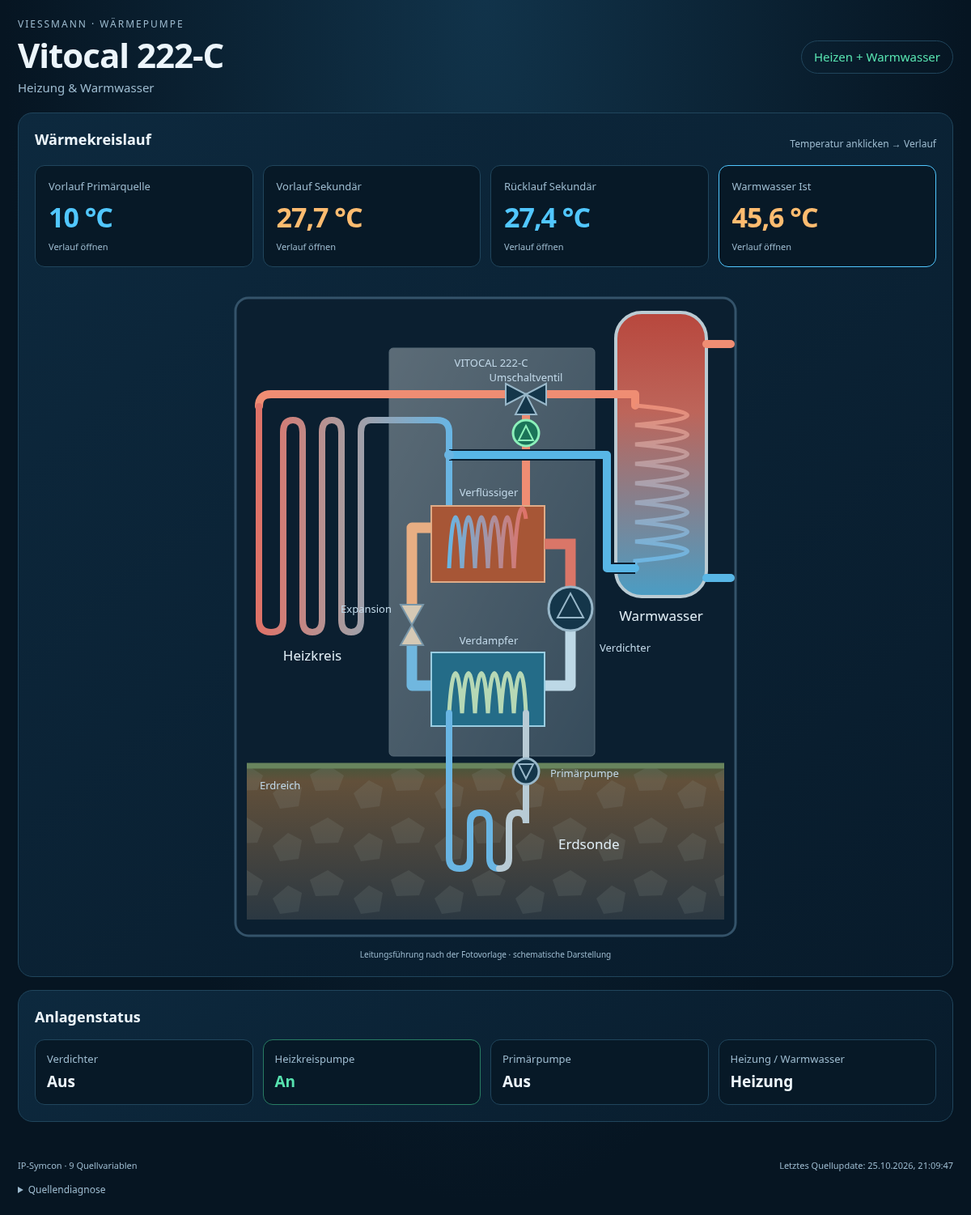
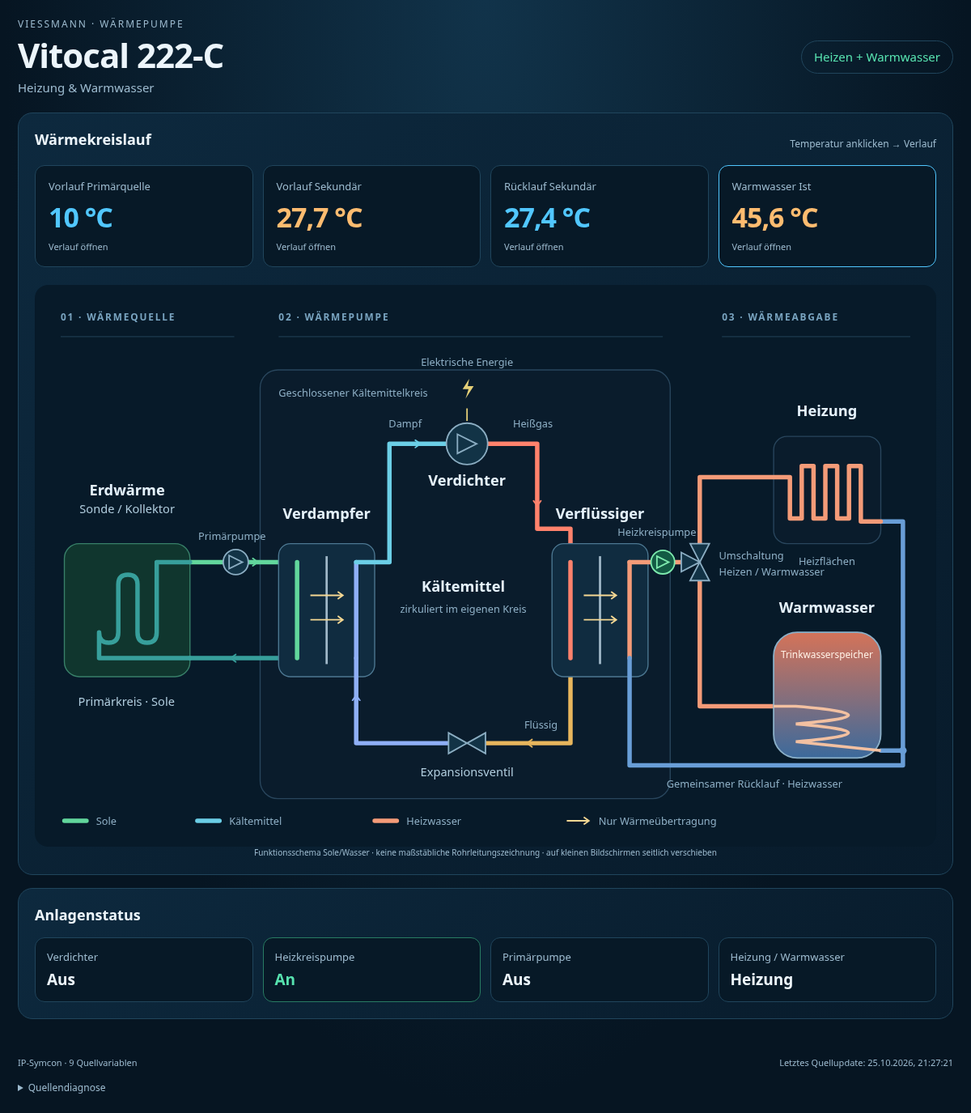
Create new heat-pump function diagram with separate fluid circuits

diff --git a/Vitocal222CTile/tile.html b/Vitocal222CTile/tile.html
@@ -3,8 +3,8 @@
 <style>
 :root{color-scheme:dark;--bg:#061522;--panel:#0b2234;--line:#20455c;--text:#ecf5fb;--muted:#9cbace;--blue:#51c7ff;--warm:#ffbc70;--green:#57e2af}*{box-sizing:border-box}body{margin:0;background:radial-gradient(ellipse at top,#11334a,var(--bg) 70%);color:var(--text);font:15px/1.4 system-ui,sans-serif}main{max-width:1200px;padding:22px;margin:auto}header{display:flex;align-items:center;justify-content:space-between;gap:16px;margin-bottom:20px}h1{margin:0;font-size:clamp(25px,4vw,42px);letter-spacing:-1px}h2{font-size:18px;margin:0 0 15px}.eyebrow{font-size:12px;letter-spacing:2px;color:var(--muted)}.subtitle{color:var(--muted)}.badge{border:1px solid var(--line);border-radius:24px;padding:9px 15px;color:var(--green);max-width:45%;overflow-wrap:anywhere}.grid{display:grid;grid-template-columns:1fr 1fr;gap:16px}.panel{border:1px solid var(--line);background:linear-gradient(140deg,#0d293e,#081b2b);border-radius:18px;padding:20px;min-width:0}.wide{grid-column:1/-1}.reading{background:#071927;border:1px solid var(--line);border-radius:12px;padding:16px}.label{color:var(--muted);font-size:13px}.value{font-size:clamp(24px,4vw,38px);font-weight:600;letter-spacing:-1px;overflow-wrap:anywhere}.warm{color:var(--warm)}.cold{color:var(--blue)}.diagram-note{font-size:10px;color:var(--muted);text-align:center}.status-grid{display:grid;grid-template-columns:repeat(4,1fr);gap:12px}.status{background:#071927;border-radius:12px;padding:14px;border:1px solid var(--line)}.status strong{display:block;font-size:19px;margin-top:6px}.status[data-active="true"]{border-color:#287c63}.status[data-active="true"] strong{color:var(--green)}button{font:inherit;border-radius:9px;border:1px solid #376079;padding:10px 12px;background:#0d3047;color:var(--text);cursor:pointer;min-height:42px}button:disabled{opacity:.45;cursor:default}button:hover:enabled{border-color:var(--blue)}button:focus-visible,select:focus-visible,summary:focus-visible{outline:2px solid var(--blue);outline-offset:3px}.reason,.hint{font-size:12px;color:var(--muted);margin-top:10px}.feedback{font-size:13px;color:#ffd399;min-height:20px;margin:12px 0}footer{color:var(--muted);font-size:11px;margin-top:14px;display:flex;gap:10px;justify-content:space-between;flex-wrap:wrap}details{margin-top:15px;color:var(--muted);font-size:12px}summary{cursor:pointer}pre{white-space:pre-wrap;overflow-wrap:anywhere;max-height:220px;overflow:auto}.unavailable{color:#ffd399} @media(max-width:650px){main{padding:12px}.grid{grid-template-columns:1fr}.status-grid{grid-template-columns:1fr 1fr}.reading{padding:10px}.panel{padding:15px}.value{font-size:25px}.label{font-size:11px}.badge{font-size:12px}header{align-items:flex-start}.diagram-note{font-size:9px}}
 
-.section-heading,.dialog-heading{display:flex;justify-content:space-between;gap:12px;align-items:center;flex-wrap:wrap}.section-heading h2{margin-bottom:0}.section-heading{margin-bottom:18px}.temperature-cards{display:grid;grid-template-columns:repeat(4,minmax(0,1fr));gap:12px}.reading{text-align:left;display:flex;flex-direction:column;gap:5px;min-width:0}.reading .value{font-size:clamp(22px,3vw,34px)}.chart-link{color:var(--muted);font-size:11px}.plant{display:block;width:100%;max-width:650px;height:auto;margin:22px auto 0}.svg-label{font:17px system-ui;fill:#e0edf5}.svg-small{font:13px system-ui;fill:#c0d7e7}.pipe-hot,.pipe-cold{fill:none;stroke:#ef8d73;stroke-width:10;stroke-linejoin:round;stroke-linecap:round}.pipe-cold{stroke:#58b6e6}.component{fill:#14364a;stroke:#98b7c9;stroke-width:3}.component.active{fill:#1b7358;stroke:#8cf0ba}.component path{stroke-width:2}dialog{color:var(--text);background:#0a1d2c;border:1px solid #36627a;border-radius:18px;padding:22px;width:min(950px,96vw);max-width:96vw;max-height:95dvh;overflow:auto}dialog::backdrop{background:#000a}.dialog-heading h2{font-size:24px;margin:4px 0 15px}select{font:inherit;background:#102e42;border:1px solid #376079;border-radius:8px;color:var(--text);padding:9px;margin-left:6px}.history-toolbar{display:flex;align-items:center;justify-content:space-between;flex-wrap:wrap;gap:12px;margin:12px 0}.history-navigation{display:flex;gap:7px;flex-wrap:wrap}.history-dates{font-size:13px;color:var(--muted);margin:12px 0}#historyState{font-size:13px;color:#ffd399;min-height:24px}#chartWrap{position:relative}#historyChart{display:block;width:100%;height:auto;min-height:160px;touch-action:pan-y}#chartTooltip{position:absolute;left:10px;top:4px;background:#183e55;padding:8px;border-radius:7px;pointer-events:none;font-size:12px}#historySummary{margin-top:8px}.table-scroll{max-height:240px;overflow:auto}table{width:100%;border-collapse:collapse;font-size:12px}td,th{padding:6px 10px;text-align:left;border-bottom:1px solid var(--line)}#historyChart text{fill:#9fbfd3;font:12px system-ui}.chart-grid{stroke:#244257;stroke-width:1}.chart-line{stroke:#ffbc70;stroke-width:2;fill:none;vector-effect:non-scaling-stroke}.chart-point{fill:#ffbc70}
-@media(max-width:650px){.temperature-cards{grid-template-columns:1fr 1fr;gap:8px}.plant{margin-top:20px}.reading .value{font-size:26px}.dialog-heading h2{font-size:20px}dialog{padding:14px}.history-navigation button{padding:8px}.section-heading .hint{margin:0}}
+.section-heading,.dialog-heading{display:flex;justify-content:space-between;gap:12px;align-items:center;flex-wrap:wrap}.section-heading h2{margin-bottom:0}.section-heading{margin-bottom:18px}.temperature-cards{display:grid;grid-template-columns:repeat(4,minmax(0,1fr));gap:12px}.reading{text-align:left;display:flex;flex-direction:column;gap:5px;min-width:0}.reading .value{font-size:clamp(22px,3vw,34px)}.chart-link{color:var(--muted);font-size:11px}.plant-viewport{overflow-x:auto;margin:22px 0 0;border-radius:14px;overscroll-behavior-x:contain}.plant{display:block;width:100%;min-width:950px;height:auto;margin:0 auto}.plant-viewport:focus-visible{outline:2px solid var(--blue);outline-offset:3px}.component{fill:#14364a;stroke:#98b7c9;stroke-width:3}.component.active{fill:#1b7358;stroke:#8cf0ba}.component path{stroke-width:2}dialog{color:var(--text);background:#0a1d2c;border:1px solid #36627a;border-radius:18px;padding:22px;width:min(950px,96vw);max-width:96vw;max-height:95dvh;overflow:auto}dialog::backdrop{background:#000a}.dialog-heading h2{font-size:24px;margin:4px 0 15px}select{font:inherit;background:#102e42;border:1px solid #376079;border-radius:8px;color:var(--text);padding:9px;margin-left:6px}.history-toolbar{display:flex;align-items:center;justify-content:space-between;flex-wrap:wrap;gap:12px;margin:12px 0}.history-navigation{display:flex;gap:7px;flex-wrap:wrap}.history-dates{font-size:13px;color:var(--muted);margin:12px 0}#historyState{font-size:13px;color:#ffd399;min-height:24px}#chartWrap{position:relative}#historyChart{display:block;width:100%;height:auto;min-height:160px;touch-action:pan-y}#chartTooltip{position:absolute;left:10px;top:4px;background:#183e55;padding:8px;border-radius:7px;pointer-events:none;font-size:12px}#historySummary{margin-top:8px}.table-scroll{max-height:240px;overflow:auto}table{width:100%;border-collapse:collapse;font-size:12px}td,th{padding:6px 10px;text-align:left;border-bottom:1px solid var(--line)}#historyChart text{fill:#9fbfd3;font:12px system-ui}.chart-grid{stroke:#244257;stroke-width:1}.chart-line{stroke:#ffbc70;stroke-width:2;fill:none;vector-effect:non-scaling-stroke}.chart-point{fill:#ffbc70}
+@media(max-width:650px){.temperature-cards{grid-template-columns:1fr 1fr;gap:8px}.reading .value{font-size:26px}.dialog-heading h2{font-size:20px}dialog{padding:14px}.history-navigation button{padding:8px}.section-heading .hint{margin:0}}
 </style></head><body><main>
 <header><div><div class="eyebrow">VIESSMANN · WÄRMEPUMPE</div><h1>Vitocal 222-C</h1><div class="subtitle">Heizung &amp; Warmwasser</div></div><div id="modeBadge" class="badge">—</div></header>
 <div class="grid"><section class="panel wide"><div class="section-heading"><h2>Wärmekreislauf</h2><span class="hint">Temperatur anklicken → Verlauf</span></div>
@@ -14,67 +14,100 @@
 <button class="reading" data-history="return"><span class="label">Rücklauf Sekundär</span><span id="return" class="value cold">—</span><span class="chart-link">Verlauf öffnen</span></button>
 <button class="reading" data-history="water"><span class="label">Warmwasser Ist</span><span id="water" class="value warm">—</span><span class="chart-link">Verlauf öffnen</span></button>
 </div>
-<svg class="plant" viewBox="0 0 650 820" role="img" aria-labelledby="plantTitle plantDesc">
-<title id="plantTitle">Anlagenschema nach der bereitgestellten Vitocal-Vorlage</title>
-<desc id="plantDesc">Heizschleife links, Speicher rechts. Der Sekundärvorlauf steigt vom oberen Wärmetauscher über die Heizkreispumpe zum Dreiwegeventil. Beide Rückläufe treffen sich links; die Kreuzung mit dem Vorlauf ist keine Verbindung. Verdichter rechts, Expansionsorgan links und Verdampfer unten bilden den getrennten Kältekreis. Die Primärpumpe liegt rechts zwischen Verdampfer und Erdsonde.</desc>
+<div class="plant-viewport" tabindex="0" role="region" aria-label="Funktionsschema, bei Bedarf seitlich verschieben"><svg xmlns="http://www.w3.org/2000/svg" class="plant" viewBox="0 0 1220 760" role="img" aria-labelledby="plantTitle plantDesc">
+<title id="plantTitle">Vitocal 222-C – Funktionsschema einer Sole/Wasser-Wärmepumpe</title>
+<desc id="plantDesc">Der Primärkreis nimmt Erdwärme auf und überträgt sie im Verdampfer an einen getrennten Kältemittelkreis. Dort folgen Verdichter, Verflüssiger und Expansionsventil. Im Verflüssiger wird Wärme an den ebenfalls getrennten Sekundärkreis abgegeben. Ein Umschaltventil führt Heizwasser entweder zum Heizkreis oder zum Wärmetauscher des Trinkwasserspeichers. Nur Wärme, keine Flüssigkeit, gelangt durch die Trennwände der Wärmetauscher. Dies ist ein Funktionsschema, kein Installationsplan.</desc>
+<style>
+.plant .scheme-panel{fill:#0a1c2c;stroke:#29465d;stroke-width:1.5}.plant .scheme-device{fill:#102c40;stroke:#4d7892;stroke-width:1.5}.plant .scheme-heading{fill:#e5f2fc;font:600 20px system-ui,sans-serif}.plant .scheme-caption{fill:#afcbdc;font:16px system-ui,sans-serif}.plant .scheme-small{fill:#8daec4;font:14px system-ui,sans-serif}.plant .scheme-stage{fill:#79a4c0;font:600 13px system-ui,sans-serif;letter-spacing:2px}.plant .circuit{fill:none;stroke-width:6;stroke-linecap:round;stroke-linejoin:round}.plant .source-warm{stroke:#62d69c}.plant .source-cool{stroke:#379f9b}.plant .vapor{stroke:#6bcee6}.plant .hot-gas{stroke:#ff826c}.plant .liquid{stroke:#e8b65d}.plant .expanded{stroke:#8faff6}.plant .heating-supply{stroke:#f49b78}.plant .heating-return{stroke:#699ed7}.plant .separation{stroke:#a1b9c9;stroke-width:3}.plant .heat-transfer{stroke:#f5d893;stroke-width:2;fill:none}.plant .component{fill:#123346;stroke:#8badc2;stroke-width:2}.plant .component.active{fill:#135b44;stroke:#7de9ad}.plant .component path{stroke-width:2}.plant .scheme-arrow{fill:none;stroke-width:2;stroke-linecap:round;stroke-linejoin:round}
+</style>
 <defs>
-<linearGradient id="plantCabinet" x1="0" y1="0" x2="1" y2="1"><stop stop-color="#d5dfe2"/><stop offset="1" stop-color="#78909e"/></linearGradient>
-<linearGradient id="storageHeat" x1="0" y1="0" x2="0" y2="1"><stop stop-color="#b8473d"/><stop offset=".35" stop-color="#bd655a"/><stop offset="1" stop-color="#4a9dc4"/></linearGradient>
-<linearGradient id="heatingLoopGradient" x1="0" y1="0" x2="1" y2="0"><stop stop-color="#df7268"/><stop offset=".45" stop-color="#aa9b9e"/><stop offset="1" stop-color="#69b5e3"/></linearGradient>
-<linearGradient id="secondaryTemperature" x1="0" y1="0" x2="1" y2="0"><stop stop-color="#69b5e3"/><stop offset="1" stop-color="#df7268"/></linearGradient>
-<linearGradient id="storageCoil" x1="0" y1="0" x2="0" y2="1"><stop stop-color="#e98d78"/><stop offset="1" stop-color="#68b7e6"/></linearGradient>
-<linearGradient id="earth" x1="0" y1="0" x2="0" y2="1"><stop stop-color="#47563b"/><stop offset=".1" stop-color="#62503a"/><stop offset="1" stop-color="#2b3842"/></linearGradient>
-<pattern id="earthStones" width="100" height="65" patternUnits="userSpaceOnUse"><path d="M8 20l22-12 20 13-7 18-28 1ZM62 43l19-16 17 9-4 23-23 3Z" fill="#94a29c" opacity=".14"/></pattern>
+<linearGradient id="schemeWater" x1="0" y1="0" x2="0" y2="1"><stop stop-color="#d47359"/><stop offset="1" stop-color="#3c6a9c"/></linearGradient>
 </defs>
-<rect x="16" y="16" width="618" height="788" rx="16" fill="#0b1f30" stroke="#34536a" stroke-width="3"/>
-<rect x="206" y="78" width="254" height="504" rx="5" fill="url(#plantCabinet)" opacity=".4" stroke="#c7d9e2"/>
-<text x="332" y="101" class="svg-small" text-anchor="middle">VITOCAL 222-C</text>
-<path d="M30 594H620V784H30Z" fill="url(#earth)"/><path d="M30 594H620V784H30Z" fill="url(#earthStones)"/><path d="M30 594H620" stroke="#68845d" stroke-width="7"/>
-<text x="46" y="623" class="svg-small">Erdreich</text>
-<!-- Storage body: hot water and the secondary heating coil are separate. -->
-<rect x="486" y="34" width="112" height="351" rx="32" fill="url(#storageHeat)" stroke="#bacbd3" stroke-width="4"/>
-<path d="M598 73H628" class="pipe-hot"/><path d="M598 362H628" class="pipe-cold"/>
-<text x="542" y="415" class="svg-label" text-anchor="middle">Warmwasser</text>
-<!-- Heating loop returns at x=280. It is not directly connected to the hot supply. -->
-<path id="heatingSupply" class="pipe-hot" d="M350 135H60Q45 135 45 150"/>
-<path id="heatingLoop" d="M45 150V414Q45 429 60 429Q75 429 75 414V182Q75 167 87 167Q99 167 99 182V414Q99 429 111 429Q123 429 123 414V182Q123 167 135 167Q147 167 147 182V414Q147 429 159 429Q171 429 171 414V182Q171 167 183 167H265Q280 167 280 182V350" fill="none" stroke="url(#heatingLoopGradient)" stroke-width="8" stroke-linejoin="round" stroke-linecap="round"/>
-<text x="111" y="464" class="svg-label" text-anchor="middle">Heizkreis</text>
-<!-- Common hot secondary flow enters the bottom port of the three-way valve. -->
-<path id="secondarySupply" class="pipe-hot" d="M375 289V155"/>
-<path id="storageSupply" class="pipe-hot" d="M395 135H510V149"/>
-<path id="storageCoilPath" d="M510 149C596 157 596 165 510 173C596 181 596 189 510 197C596 205 596 213 510 221C596 229 596 237 510 245C596 253 596 261 510 269C596 277 596 285 510 293C596 301 596 309 510 317C596 325 596 333 510 341V350" fill="none" stroke="url(#storageCoil)" stroke-width="5"/>
-<!-- Underlay marks the return crossing as NOT a hydraulic junction with the supply. -->
-<path id="storageReturnUnderlay" d="M510 350H475V210H280" fill="none" stroke="#0b1f30" stroke-width="14" stroke-linejoin="round"/>
-<path id="storageReturn" class="pipe-cold" d="M510 350H475V210H280"/>
-<circle cx="280" cy="210" r="6" fill="#69b5e3"/>
-<!-- Upper heat exchanger: the blue-to-red water coil is distinct from refrigerant. -->
-<path d="M258 273H398V367H258Z" fill="#a75636" stroke="#dfab87" stroke-width="2"/>
-<path d="M280 350C284 266 292 266 296 350C300 266 308 266 312 350C316 266 324 266 328 350C332 266 340 266 344 350C348 266 356 266 360 350C364 266 372 266 375 289" fill="none" stroke="url(#secondaryTemperature)" stroke-width="5"/>
-<text x="329" y="261" class="svg-small" text-anchor="middle">Verflüssiger</text>
-<!-- Refrigerant cycle follows the reference, without connecting to either water circuit. -->
-<path id="refrigerantHigh" d="M398 320H430V374" fill="none" stroke="#da7668" stroke-width="13"/>
-<path id="refrigerantSuction" d="M430 426V495H398" fill="none" stroke="#bdd8e6" stroke-width="13" stroke-linejoin="round"/>
-<path id="refrigerantLiquid" d="M258 300H234V395" fill="none" stroke="#e8ae83" stroke-width="13" stroke-linejoin="round"/>
-<path id="refrigerantLow" d="M234 445V495H258" fill="none" stroke="#70b7df" stroke-width="13" stroke-linejoin="round"/>
-<path d="M220 395H248L234 420ZM220 445H248L234 420Z" fill="#d5c9b5" stroke="#7896a8" stroke-width="2"/>
-<text x="209" y="405" class="svg-small" text-anchor="end">Expansion</text>
-<rect x="258" y="454" width="140" height="91" fill="#246c88" stroke="#9acde1" stroke-width="2"/>
-<path d="M280 529C284 463 292 463 296 529C300 463 308 463 312 529C316 463 324 463 328 529C332 463 340 463 344 529C348 463 356 463 360 529C364 463 372 463 375 529" fill="none" stroke="#b6d8b5" stroke-width="5"/>
-<text x="329" y="444" class="svg-small" text-anchor="middle">Verdampfer</text>
-<!-- Brine: left leg to the evaporator; pump on RIGHT leg as in the supplied photo. -->
-<path id="sourceFlow" d="M280 529V708Q280 721 293 721Q306 721 306 708V665Q306 652 318 652Q330 652 330 665V708Q330 721 342 721" fill="none" stroke="#69b5e3" stroke-width="8" stroke-linecap="round"/>
-<path id="sourceReturn" d="M342 721Q354 721 354 708V665Q354 652 365 652Q375 652 375 665V529" fill="none" stroke="#b8cbd5" stroke-width="8" stroke-linecap="round"/>
-<text x="415" y="697" class="svg-label">Erdsonde</text>
-<!-- Symbols are kept in the exact branches, not on a shared tee. -->
-<g id="heatingPumpSymbol" class="component"><circle cx="375" cy="183" r="16"/><path d="M366 192l9-18 9 18Z"/></g>
-<g id="valveSymbol" class="component"><path d="M350 122l25 13-25 13ZM400 122l-25 13 25 13ZM362 160l13-25 13 25Z"/></g>
-<text x="375" y="119" class="svg-small" text-anchor="middle">Umschaltventil</text>
-<g id="compressorSymbol" class="component"><circle cx="430" cy="400" r="27"/><path d="M414 411l16-30 16 30Z"/></g>
-<text x="466" y="453" class="svg-small">Verdichter</text>
-<g id="primaryPumpSymbol" class="component"><circle cx="375" cy="601" r="16"/><path d="M366 592l9 18 9-18Z"/></g>
-<text x="405" y="608" class="svg-small">Primärpumpe</text>
-</svg>
-<div class="diagram-note">Leitungsführung nach der Fotovorlage · schematische Darstellung</div></section>
+<rect width="1220" height="760" rx="18" fill="#071a29"/>
+<!-- Functional stages. Physical location inside the appliance is not asserted. -->
+<text x="35" y="48" class="scheme-stage">01 · WÄRMEQUELLE</text>
+<text x="330" y="48" class="scheme-stage">02 · WÄRMEPUMPE</text>
+<text x="930" y="48" class="scheme-stage">03 · WÄRMEABGABE</text>
+<path d="M35 70H270M330 70H850M930 70H1185" stroke="#25465d" stroke-width="1"/>
+<rect x="305" y="115" width="555" height="580" rx="24" class="scheme-panel"/>
+<text x="330" y="151" class="scheme-small">Geschlossener Kältemittelkreis</text>
+<!-- PRIMARY: heat-source fluid remains on the LEFT side of the evaporator. -->
+<rect x="40" y="350" width="170" height="180" rx="20" fill="#10362e" stroke="#388069" stroke-width="1.5"/>
+<text x="125" y="285" class="scheme-heading" text-anchor="middle">Erdwärme</text>
+<text x="125" y="309" class="scheme-caption" text-anchor="middle">Sonde / Kollektor</text>
+<path d="M210 375H355" class="circuit source-warm"/>
+<path d="M355 505H210" class="circuit source-cool"/>
+<path d="M210 375H165V470Q165 484 152 484Q139 484 139 470V405Q139 392 126 392Q113 392 113 405V470Q113 484 100 484Q87 484 87 470V505H210" class="circuit source-cool"/>
+<g id="primaryPumpSymbol" class="component"><circle cx="272" cy="375" r="17"/><path d="M263 366l18 9-18 9Z"/></g>
+<text x="267" y="345" class="scheme-small" text-anchor="middle">Primärpumpe</text>
+<path d="M295 370l7 5-7 5" class="scheme-arrow source-warm"/>
+<path d="M272 500l-7 5 7 5" class="scheme-arrow source-cool"/>
+<text x="124" y="570" class="scheme-caption" text-anchor="middle">Primärkreis · Sole</text>
+<!-- EVAPORATOR: separate parallel channels with a wall and heat-transfer arrows. -->
+<rect x="330" y="350" width="130" height="180" rx="16" class="scheme-device"/>
+<path d="M355 375V505" class="circuit source-warm"/>
+<path d="M435 505V375" class="circuit expanded"/>
+<path d="M395 367V513" class="separation"/>
+<path d="M373 420H417m-7-5 7 5-7 5M373 453H417m-7-5 7 5-7 5" class="heat-transfer"/>
+<text x="395" y="316" class="scheme-heading" text-anchor="middle">Verdampfer</text>
+
+<!-- REFRIGERANT: evaporator → compressor → condenser → expansion valve → evaporator. -->
+<path d="M435 375H480V215H557" class="circuit vapor"/>
+<path d="M613 215H680V330H725V375" class="circuit hot-gas"/>
+<path d="M725 505V620H610" class="circuit liquid"/>
+<path d="M560 620H435V505" class="circuit expanded"/>
+<g id="compressorSymbol" class="component"><circle cx="585" cy="215" r="28"/><path d="M572 202l26 13-26 13Z"/></g>
+<text x="585" y="272" class="scheme-heading" text-anchor="middle">Verdichter</text>
+<path d="M585 167V184" stroke="#e5cf78" stroke-width="2"/>
+<text x="585" y="109" class="scheme-small" text-anchor="middle">Elektrische Energie</text>
+<path d="M588 127l-9 14h8l-4 13 11-17h-8Z" fill="#e5cf78"/>
+<path d="M515 210l7 5-7 5" class="scheme-arrow vapor"/>
+<path d="M675 292l5 7 5-7" class="scheme-arrow hot-gas"/>
+<path d="M673 615l-7 5 7 5" class="scheme-arrow liquid"/>
+<path d="M440 562l-5-7-5 7" class="scheme-arrow expanded"/>
+<text x="479" y="193" class="scheme-small">Dampf</text>
+<text x="701" y="193" class="scheme-small" text-anchor="end">Heißgas</text>
+<text x="685" y="600" class="scheme-small" text-anchor="middle">Flüssig</text>
+<g id="expansionSymbol" class="component"><path d="M560 606l25 14-25 14ZM610 606l-25 14 25 14Z"/></g>
+<text x="585" y="665" class="scheme-caption" text-anchor="middle">Expansionsventil</text>
+<text x="580" y="415" class="scheme-heading" text-anchor="middle">Kältemittel</text>
+<text x="580" y="443" class="scheme-small" text-anchor="middle">zirkuliert im eigenen Kreis</text>
+<!-- CONDENSER: refrigerant LEFT, heating water RIGHT; no hydraulic connection. -->
+<rect x="700" y="350" width="130" height="180" rx="16" class="scheme-device"/>
+<path d="M725 375V505" class="circuit hot-gas"/>
+<path d="M805 505V375" class="circuit heating-supply"/>
+<path d="M765 367V513" class="separation"/>
+<path d="M743 420H787m-7-5 7 5-7 5M743 453H787m-7-5 7 5-7 5" class="heat-transfer"/>
+<text x="765" y="316" class="scheme-heading" text-anchor="middle">Verflüssiger</text>
+
+<!-- SECONDARY: selector distributes supply, common return stays outside both branches. -->
+<path d="M805 375H875" class="circuit heating-supply"/>
+<g id="heatingPumpSymbol" class="component"><circle cx="850" cy="375" r="16"/><path d="M842 367l16 8-16 8Z"/></g>
+<text x="842" y="340" class="scheme-small" text-anchor="middle">Heizkreispumpe</text>
+<path d="M900 350V260H1000M900 400V570H1000" class="circuit heating-supply"/>
+<g id="valveSymbol" class="component"><path d="M875 362l25 13-25 13ZM887 350l13 25 13-25ZM887 400l13-25 13 25Z"/></g>
+<text x="926" y="371" class="scheme-small">Umschaltung</text>
+<text x="926" y="393" class="scheme-small">Heizen / Warmwasser</text>
+<path d="M1145 320H1175V650H805V505M1145 630H1175" class="circuit heating-return"/>
+<circle cx="1175" cy="630" r="5" fill="#699ed7"/>
+<text x="974" y="680" class="scheme-small" text-anchor="middle">Gemeinsamer Rücklauf · Heizwasser</text>
+<!-- Space heating load. -->
+<rect x="1000" y="205" width="145" height="145" rx="18" class="scheme-panel"/>
+<path d="M1000 260H1022V316H1038V245H1054V316H1070V245H1086V316H1102V245H1118V320H1145" class="circuit heating-supply"/>
+<text x="1072" y="177" class="scheme-heading" text-anchor="middle">Heizung</text>
+<text x="1072" y="379" class="scheme-small" text-anchor="middle">Heizflächen</text>
+<!-- Domestic hot water is separated by its own coil from secondary heating water. -->
+<rect x="1000" y="470" width="145" height="170" rx="32" fill="url(#schemeWater)" stroke="#8bb0c8" stroke-width="2"/>
+<path d="M1000 570H1030C1125 578 1125 586 1030 594C1125 602 1125 610 1030 618L1145 630" fill="none" stroke="#f2c0a1" stroke-width="4"/>
+<text x="1072" y="443" class="scheme-heading" text-anchor="middle">Warmwasser</text>
+<text x="1072" y="505" fill="#fff0e5" font-family="system-ui,sans-serif" font-size="13" text-anchor="middle">Trinkwasserspeicher</text>
+<!-- Legend: distinct media, no assumed physical installation arrangement. -->
+<path d="M40 725H70" class="circuit source-warm"/><text x="83" y="730" class="scheme-small">Sole</text>
+<path d="M220 725H250" class="circuit vapor"/><text x="263" y="730" class="scheme-small">Kältemittel</text>
+<path d="M460 725H490" class="circuit heating-supply"/><text x="503" y="730" class="scheme-small">Heizwasser</text>
+<path d="M720 725H750m-7-5 7 5-7 5" class="heat-transfer"/><text x="763" y="730" class="scheme-small">Nur Wärmeübertragung</text>
+</svg></div>
+<div class="diagram-note">Funktionsschema Sole/Wasser · keine maßstäbliche Rohrleitungszeichnung · auf kleinen Bildschirmen seitlich verschieben</div></section>
 <section class="panel wide"><h2>Anlagenstatus</h2><div id="statuses" class="status-grid"></div></section>
 </div>
 <div id="feedback" class="feedback" role="status" aria-live="polite"></div><footer><span id="sourceState"></span><span id="updated"></span></footer><details><summary>Quellendiagnose</summary><pre id="diagnostics"></pre></details>

diff --git a/tests/build.py b/tests/build.py
@@ -4,6 +4,7 @@ import hashlib
 import json
 import uuid
 import zipfile
+import xml.etree.ElementTree as ET
 from pathlib import Path
 root=Path(__file__).resolve().parents[1]
 lib=json.loads((root/'library.json').read_text())
@@ -13,8 +14,12 @@ assert lib['id'] != mod['id']
 assert lib['id'] != '{B24E29F4-981D-4B92-842B-785D28962BD5}'
 assert mod['id'] != '{4305595E-0E5F-4124-AD59-8E11257A1E97}'
 assert mod['prefix']=='V222' and lib['compatibility']['version']=='7.1'
-files=['library.json','Vitocal222CTile/module.json','Vitocal222CTile/module.php','Vitocal222CTile/tile.html','README.md','CHANGELOG.md','docs/VALIDATION.md','docs/dashboard.png','docs/history.png']
+files=['library.json','Vitocal222CTile/module.json','Vitocal222CTile/module.php','Vitocal222CTile/tile.html','README.md','CHANGELOG.md','docs/VALIDATION.md','docs/dashboard.png','docs/history.png','docs/plant.svg','docs/plant.png']
 assert all((root/p).is_file() for p in files)
+svg=(root/'docs/plant.svg').read_text().strip()
+ET.fromstring(svg)
+assert svg in (root/'Vitocal222CTile/tile.html').read_text(), 'Exported SVG must match the installed diagram'
+
 parser=argparse.ArgumentParser(description=__doc__)
 parser.add_argument('--output-dir',type=Path,default=root.parent/(root.name+'-artifacts'))
 args=parser.parse_args()

diff --git a/tests/browser_test.py b/tests/browser_test.py
@@ -103,9 +103,16 @@ with sync_playwright() as p:
     page.evaluate('handleMessage',snapshot)
     check(all(c['ident']=='RequestHistory' for c in page.evaluate('calls')),'browser only requests read-only history')
     page.screenshot(path=str(ROOT/'docs/dashboard.png'),full_page=True)
+    page.locator('.plant').screenshot(path=str(ROOT/'docs/plant.png'))
     for width in [320,390,768,1200]:
         page.set_viewport_size({'width':width,'height':1000})
         check(page.evaluate('document.documentElement.scrollWidth<=innerWidth'),'dashboard no horizontal overflow '+str(width))
+        if width==320:
+            viewport=page.locator('.plant-viewport')
+            check(viewport.evaluate('(el)=>el.scrollWidth>el.clientWidth'),'diagram remains readable through local scrolling')
+            viewport.evaluate('(el)=>el.scrollTo({left:el.scrollWidth,behavior:"instant"})')
+            check(viewport.evaluate('(el)=>el.scrollLeft>0'),'right side of diagram reachable on mobile')
+            viewport.evaluate('(el)=>el.scrollTo({left:0,behavior:"instant"})')
         page.locator('[data-history="water"]').click();r=request()
         synthetic=[{'time':r['start']+int((r['end']-r['start'])*i/24),'value':44+(i%6)*.4} for i in range(25)]
         reply(r,synthetic)

diff --git a/README.md b/README.md
@@ -1,6 +1,6 @@
 # Viessmann Vitocal 222-C · Kachel für IP-Symcon
 
-Modul für die **Kachelvisualisierung ab IP-Symcon 7.1**. Zeigt vier gemessene Temperaturen, Pumpen, Verdichter, Umschaltventil und Betriebsart. Das Schema orientiert sich an der bereitgestellten Anlagenvorlage mit Heizkreis, Warmwasserspeicher, Kältekreis und Erdsonde. **Keine Sollwertanzeigen oder Sollwerteingaben, keine Lüftungsdaten.** Die Betriebsart wird ausschließlich als aktueller Status angezeigt; die gesamte Kachel ist schreibgeschützt.
+Modul für die **Kachelvisualisierung ab IP-Symcon 7.1**. Zeigt vier gemessene Temperaturen, Pumpen, Verdichter, Umschaltventil und Betriebsart. Das neu konstruierte Funktionsschema zeigt Wärmequelle, Wärmepumpe und Wärmeabgabe als getrennte Bereiche. **Keine Sollwertanzeigen oder Sollwerteingaben, keine Lüftungsdaten.** Die Betriebsart wird ausschließlich als aktueller Status angezeigt; die gesamte Kachel ist schreibgeschützt.
 
 ![Kachel mit synthetischen Testwerten](docs/dashboard.png)
 
@@ -8,7 +8,7 @@ Modul für die **Kachelvisualisierung ab IP-Symcon 7.1**. Zeigt vier gemessene T
 
 In **Module Control** das Repository `https://github.com/somm86/Viessmann-Vitocal-222` mit Branch `main` hinzufügen oder aktualisieren. Instanz **Vitocal 222-C Kachel** erstellen bzw. die vorhandene Instanz öffnen, **Übernehmen** drücken und die Kachel neu öffnen. Bibliotheks- und Modul-GUIDs bleiben beim Update gleich; keine neue Instanz erforderlich.
 
-Alternativ das mit `python3 tests/build.py` erzeugte `Vitocal222C-Kachel-1.3.zip` entpacken und den enthaltenen Ordner `Vitocal222C_Kachel` vollständig nach `<Symcon-Datenverzeichnis>/modules/` auf dem Symcon-Server kopieren. Direkt darin muss `library.json` liegen. Symcon-Dienst neu starten. Nicht gleichzeitig per Module Control und lokal installieren.
+Alternativ das mit `python3 tests/build.py` erzeugte `Vitocal222C-Kachel-1.4.zip` entpacken und den enthaltenen Ordner `Vitocal222C_Kachel` vollständig nach `<Symcon-Datenverzeichnis>/modules/` auf dem Symcon-Server kopieren. Direkt darin muss `library.json` liegen. Symcon-Dienst neu starten. Nicht gleichzeitig per Module Control und lokal installieren.
 
 Die Instanz zur Kachelvisualisierung hinzufügen bzw. verlinken. Eine große Kachel zeigt das Schema übersichtlicher; kleine Kacheln können vertikal gescrollt werden. Die Geräteintegration muss die vorhandenen Variablen aktualisieren; die Kachel verbindet sich nicht selbst mit der Wärmepumpe.
 
@@ -59,11 +59,23 @@ Variable `53049` wird mit ihrem formatierten Quellwert oben in der Statusanzeige
 
 **Quellendiagnose** zeigt die gelesenen Werte und den Schreibschutz. Die Instanz bietet zusätzlich **Quellen-Diagnose anzeigen** mit den konfigurierten Quell-IDs und dem Archiv.
 
-## Korrigiertes Anlagenschema
+## Neues Funktionsschema
 
-Das Schema ist nach der Fotovorlage neu gezeichnet: Die Heizkreispumpe sitzt im senkrechten gemeinsamen Vorlauf unter dem Dreiwegeventil. Vom Ventil gehen getrennte Leitungen zur linken Heizschleife und zur Speicherwendel rechts. Deren Rückläufe werden links zusammengeführt; die gezeichnete Kreuzung zum heißen Vorlauf ist keine hydraulische Verbindung. Der getrennte Kältekreis liegt zwischen Verflüssiger, Verdichter rechts, Verdampfer und Expansionsorgan links. Die Primärpumpe sitzt wie auf der Vorlage auf der rechten Leitung zwischen Verdampfer und Erdsonde.
+![Funktionsschema](docs/plant.png)
 
-Die Grafik bildet die sichtbare Anordnung der bereitgestellten Vorlage schematisch ab. Sie ersetzt keinen hydraulischen Bestandsplan der tatsächlichen Installation. Temperaturen und Betriebszustände kommen ausschließlich aus den konfigurierten Variablen.
+[SVG öffnen oder herunterladen](docs/plant.svg) · [PNG öffnen](docs/plant.png)
+
+Das Schema zeigt das Funktionsprinzip einer Sole/Wasser-Wärmepumpe mit drei getrennten Medienkreisen:
+
+1. **Primärkreis:** Die Sole nimmt Erdwärme aus Sonde oder Kollektor auf und gibt sie über eine Trennwand im Verdampfer an das Kältemittel ab.
+2. **Kältemittelkreis:** Verdampfer → Verdichter → Verflüssiger → Expansionsventil → Verdampfer. Dampf, Heißgas, Flüssigkeit und entspanntes Kältemittel sind unterschiedlich eingefärbt. Der Verdichter benötigt zusätzlich elektrische Energie.
+3. **Sekundärkreis:** Im Verflüssiger wird Heizwasser erwärmt. Die Umschaltung führt es zu den Heizflächen oder zur Wendel des Trinkwasserspeichers. Beide Zweige besitzen einen gemeinsamen Heizwasser-Rücklauf. Trinkwasser und Heizwasser bleiben im Speicher getrennt.
+
+Die gelben Pfeile an den Wärmetauschern kennzeichnen ausschließlich **Wärmeübertragung**. Sie sind keine Rohrverbindung zwischen Sole, Kältemittel und Heizwasser. Statische Pfeile erklären die prinzipielle Kreisrichtung im Heizbetrieb und sind keine Messung tatsächlicher Strömungen. Die gezeichnete Bauteilanordnung ist funktional; sie behauptet keine konkrete Position im Gehäuse. Es werden keine Speichergröße, Kältemittelsorte oder optionalen Anlagenkomponenten angenommen.
+
+Das Schema ist eine eigenständige Prinzipdarstellung, kein verifiziertes Hersteller-Hydraulikschema oder Bestandsplan der konkreten Installation. Aktive Pumpen und Verdichter werden anhand vorhandener Quellvariablen grün dargestellt. Die Umschaltventil-Anzeige ersetzt keine gemessene Flussrichtung. Auf kleinen Bildschirmen lässt sich das Schema im eigenen Bereich seitlich verschieben, ohne den Text unleserlich zu verkleinern.
+
+SVG und PNG stehen separat bereit. Das SVG entspricht exakt dem in der Kachel eingebetteten Schema; der Build prüft diese Übereinstimmung. Der PNG-Export wird bei den Browserprüfungen aus der Kachel erzeugt und kann synthetische Test-Betriebszustände zeigen.
 
 ## Entwicklung und Prüfungen
 

diff --git a/docs/VALIDATION.md b/docs/VALIDATION.md
@@ -1,4 +1,4 @@
-# Prüfbericht · Version 1.3
+# Prüfbericht · Version 1.4
 
 Lokal geprüft mit PHP 8.4.24, offiziellen SymconStubs (Commit `31f2e0478eb3763236fcf44ea4144271fdeddfd5`), Python 3, Playwright 1.62.0 und System-Chromium. PHP wurde aus anhand signierter Debian-Indizes geprüften Paketen lokal unter `/tmp/php-local` extrahiert. Die Testlaufzeit ist keine Produktivabhängigkeit.
 
@@ -9,7 +9,7 @@ Lokal geprüft mit PHP 8.4.24, offiziellen SymconStubs (Commit `31f2e0478eb37632
 - Build-Ausgaben außerhalb des Repositorys; Ausgabeziele im Checkout werden vor Dateierzeugung abgewiesen. Nicht reservierte sichtbare Verzeichnisse ohne `module.json` verhindern den Build.
 - **63 Modulprüfungen**: neun Quellen und Referenzen, Entfernen der Sollwertkonfiguration und der beiden Schreibaktionen, Betriebsart als reiner Status, serverseitige Ablehnung aller Betriebsart- und Sollwert-Schreibaktionen ohne Aufruf der vorhandenen Quellaktion, Quellupdates, HTML-Escaping und wiederholtes ApplyChanges.
 - Archivintegration über das echte offizielle **ArchiveControl-Stub-Modul**: aktive/fehlende Archivierung, alle vier Temperaturzuordnungen, Rohwerte in chronologischer Reihenfolge, leere Zeitfenster ohne erfundene Ersatzwerte, Stundenmittel, automatisch und explizit ausgewählte Archive, Archivwechsel, falsche Instanz, Ablehnung von Zählerarchiven, Zeitbereichsgrenzen, Quellen-Allowlist, nichtnumerische Quellen, Erkennung des 10.000-Werte-Limits, korrelierte SDK-Antworten sowie lesbare Fehlermeldungen bei fehlerhaften Anfragen. Archivschreibaufrufe existieren ausschließlich im Test zur Fixture-Erzeugung.
-- **70 Browserprüfungen**: vier anklickbare Isttemperaturen ohne Sollwerteingaben, Betriebsart nur als Textstatus ohne Auswahl, ausschließlich lesende Browser-Anfragen, SDK-Verfügbarkeit, Modal und Tastaturbedienung, Zeichnen von Archivdaten, Tabelle, Messpunktanzeige, alle fünf Zeitbereiche, Vor-/Zurückblättern um eine vollständige Fensterbreite, Zukunftssperre, Stundenmittel-Kennzeichnung, einzelner Messpunkt, leere Daten, Archivfehler, Zeitüberschreitung, Verwerfen verspäteter Antworten und Wechsel zwischen Temperaturen. Kein horizontaler Überlauf bei 320, 390, 768 und 1200 Pixel Breite; keine JavaScript-Fehler.
+- **72 Browserprüfungen**: vier anklickbare Isttemperaturen ohne Sollwerteingaben, Betriebsart nur als Textstatus ohne Auswahl, ausschließlich lesende Browser-Anfragen, SDK-Verfügbarkeit, Modal und Tastaturbedienung, Zeichnen von Archivdaten, Tabelle, Messpunktanzeige, alle fünf Zeitbereiche, Vor-/Zurückblättern um eine vollständige Fensterbreite, Zukunftssperre, Stundenmittel-Kennzeichnung, einzelner Messpunkt, leere Daten, Archivfehler, Zeitüberschreitung, Verwerfen verspäteter Antworten und Wechsel zwischen Temperaturen. Kein horizontaler Überlauf bei 320, 390, 768 und 1200 Pixel Breite; keine JavaScript-Fehler.
 - Paketprüfung: gültige Manifeste und unveränderte Modulidentitäten, vollständige Laufzeit-/Dokumentationsdateien, ZIP-Integrität und SHA-256-Prüfsumme.
 
 ## Grenzen
@@ -18,6 +18,8 @@ Keine echte Symcon-Instanz oder Wärmepumpe ist mit dieser Entwicklungsumgebung 
 
 Die vorhandenen Live-Quellwerte und Archivdaten müssen nach Installation in deiner Symcon-Instanz verglichen werden. Für Historie ist aktive Standardwert-Archivierung der vier Isttemperaturen erforderlich. Historie, Profilwerte, Aktionen und tatsächliche Geräteantworten deiner Anlage konnten hier nicht geprüft werden. Die Betriebsart wird ausschließlich als formatierter Quellwert angezeigt; alle früheren Schreibaktionen werden abgewiesen.
 
-Die Vorlagengrafik wurde als eigenes SVG-Schema mit der Pumpen-/Ventilanordnung aus dem Foto neu gezeichnet und visuell verglichen: Sekundärpumpe im gemeinsamen Vorlauf unter dem Dreiwegeventil; Primärpumpe rechts im Erdsondenkreis; getrennte Vor- und Rückläufe. Dies ist keine hydraulische Fachplanung. Farben und Bauteilanordnung illustrieren die Kreise; aus ihnen werden keine zusätzlichen Sensorwerte oder Flussrichtungen abgeleitet.
+Das Anlagenschema ist neu als Funktionsdarstellung mit getrennten Medienkreisen konstruiert. Sichtprüfung der Kältemittel-Schleife und der Wärmeübergänge: Verdampfer → Verdichter → Verflüssiger → Expansionsventil; die Primär- und Sekundärkanäle bleiben jeweils durch eine Trennwand vom Kältemittel getrennt. Die Heizungs- und Speicherzweige führen zu einem gemeinsamen Heizwasser-Rücklauf. Die Herstellerseiten waren bei der Recherche mit HTTP 403 nicht abrufbar; deshalb wird ausdrücklich kein verifiziertes Hersteller-Hydraulikschema oder exakter Bestandsplan behauptet. Die konkrete Typausführung und interne Gehäuseanordnung sind damit nicht nachgewiesen.
+
+Der SVG-Export ist XML-validiert und wird mit dem eingebetteten Schema verglichen. Der PNG-Export entsteht aus der Browserdarstellung. Die kleinen Bildschirmbreiten werden zusätzlich auf lokale Verschiebbarkeit und Erreichbarkeit der rechten Diagrammseite geprüft.
 
 Der vorhandene GitHub-Workflow führt die lokalen Prüfungen bei Push/PR aus. Ein erfolgreicher lokaler Lauf belegt keinen erfolgreichen GitHub-CI-Lauf oder eine Installation auf dem Symcon-Server.

diff --git a/CHANGELOG.md b/CHANGELOG.md
@@ -1,5 +1,11 @@
 # Änderungen
 
+## 1.4
+
+- Anlagenschema vollständig als neues Funktionsschema mit Wärmequelle, Wärmepumpe und Wärmeabgabe konstruiert.
+- Getrennte Medienkanäle an Verdampfer und Verflüssiger, Kältekreis mit Verdichter und Expansionsventil, getrennte Heizungs- und Speicherzweige.
+- Eigenständige SVG-/PNG-Exporte und lesbare, seitlich verschiebbare Darstellung auf kleinen Bildschirmen.
+
 ## 1.3
 
 - Installationsfehler „ungültiges Module dist (module.json fehlt)“ behoben: Paketordner aus dem Modul-Repository entfernt.
